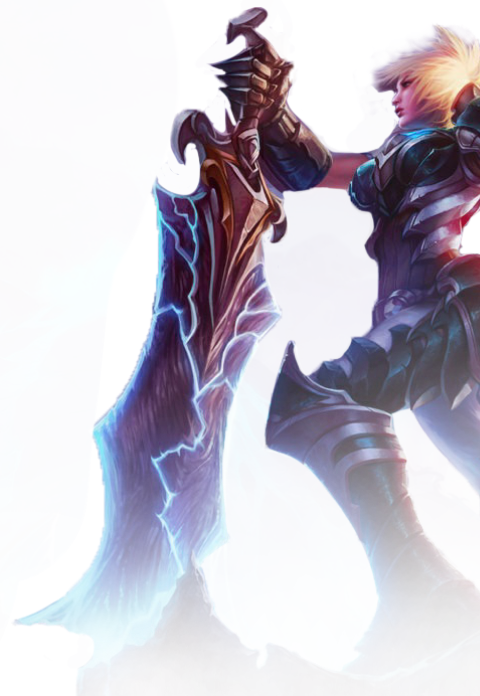
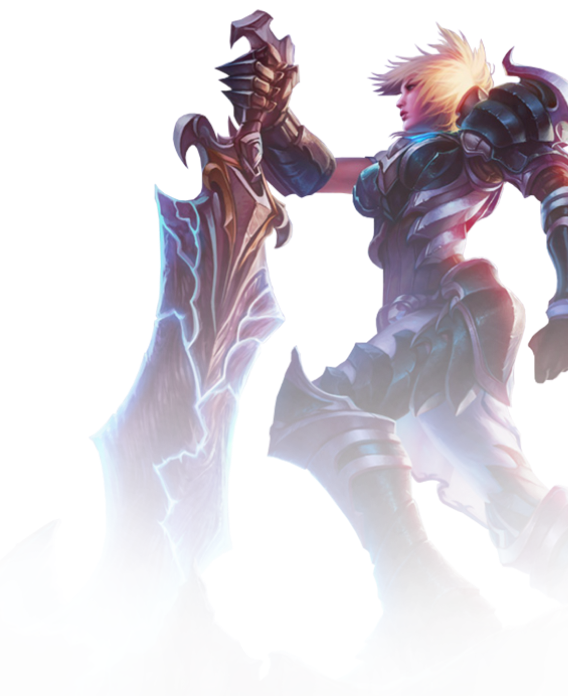
replace img + home getchampbymostplayedpost

diff --git a/client/src/views/landing/index.js b/client/src/views/landing/index.js
@@ -25,11 +25,11 @@ class Landing extends Component {
     componentDidUpdate(prevProps) {
         if (prevProps.data !== this.props.data) {
             this.setState({
-                champions_top: GlobalFiltering.getChampByPost(this.props.data, "Top"),
-                champions_jungle: GlobalFiltering.getChampByPost(this.props.data, "Jungle"),
-                champions_middle: GlobalFiltering.getChampByPost(this.props.data, "Middle"),
-                champions_bottom: GlobalFiltering.getChampByPost(this.props.data, "Bottom"),
-                champions_support: GlobalFiltering.getChampByPost(this.props.data, "Support")
+                champions_top: GlobalFiltering.getChampByMostPlayedPoste(this.props.data, "Top"),
+                champions_jungle: GlobalFiltering.getChampByMostPlayedPoste(this.props.data, "Jungle"),
+                champions_middle: GlobalFiltering.getChampByMostPlayedPoste(this.props.data, "Middle"),
+                champions_bottom: GlobalFiltering.getChampByMostPlayedPoste(this.props.data, "Bottom"),
+                champions_support: GlobalFiltering.getChampByMostPlayedPoste(this.props.data, "Support")
             })
         }
 
